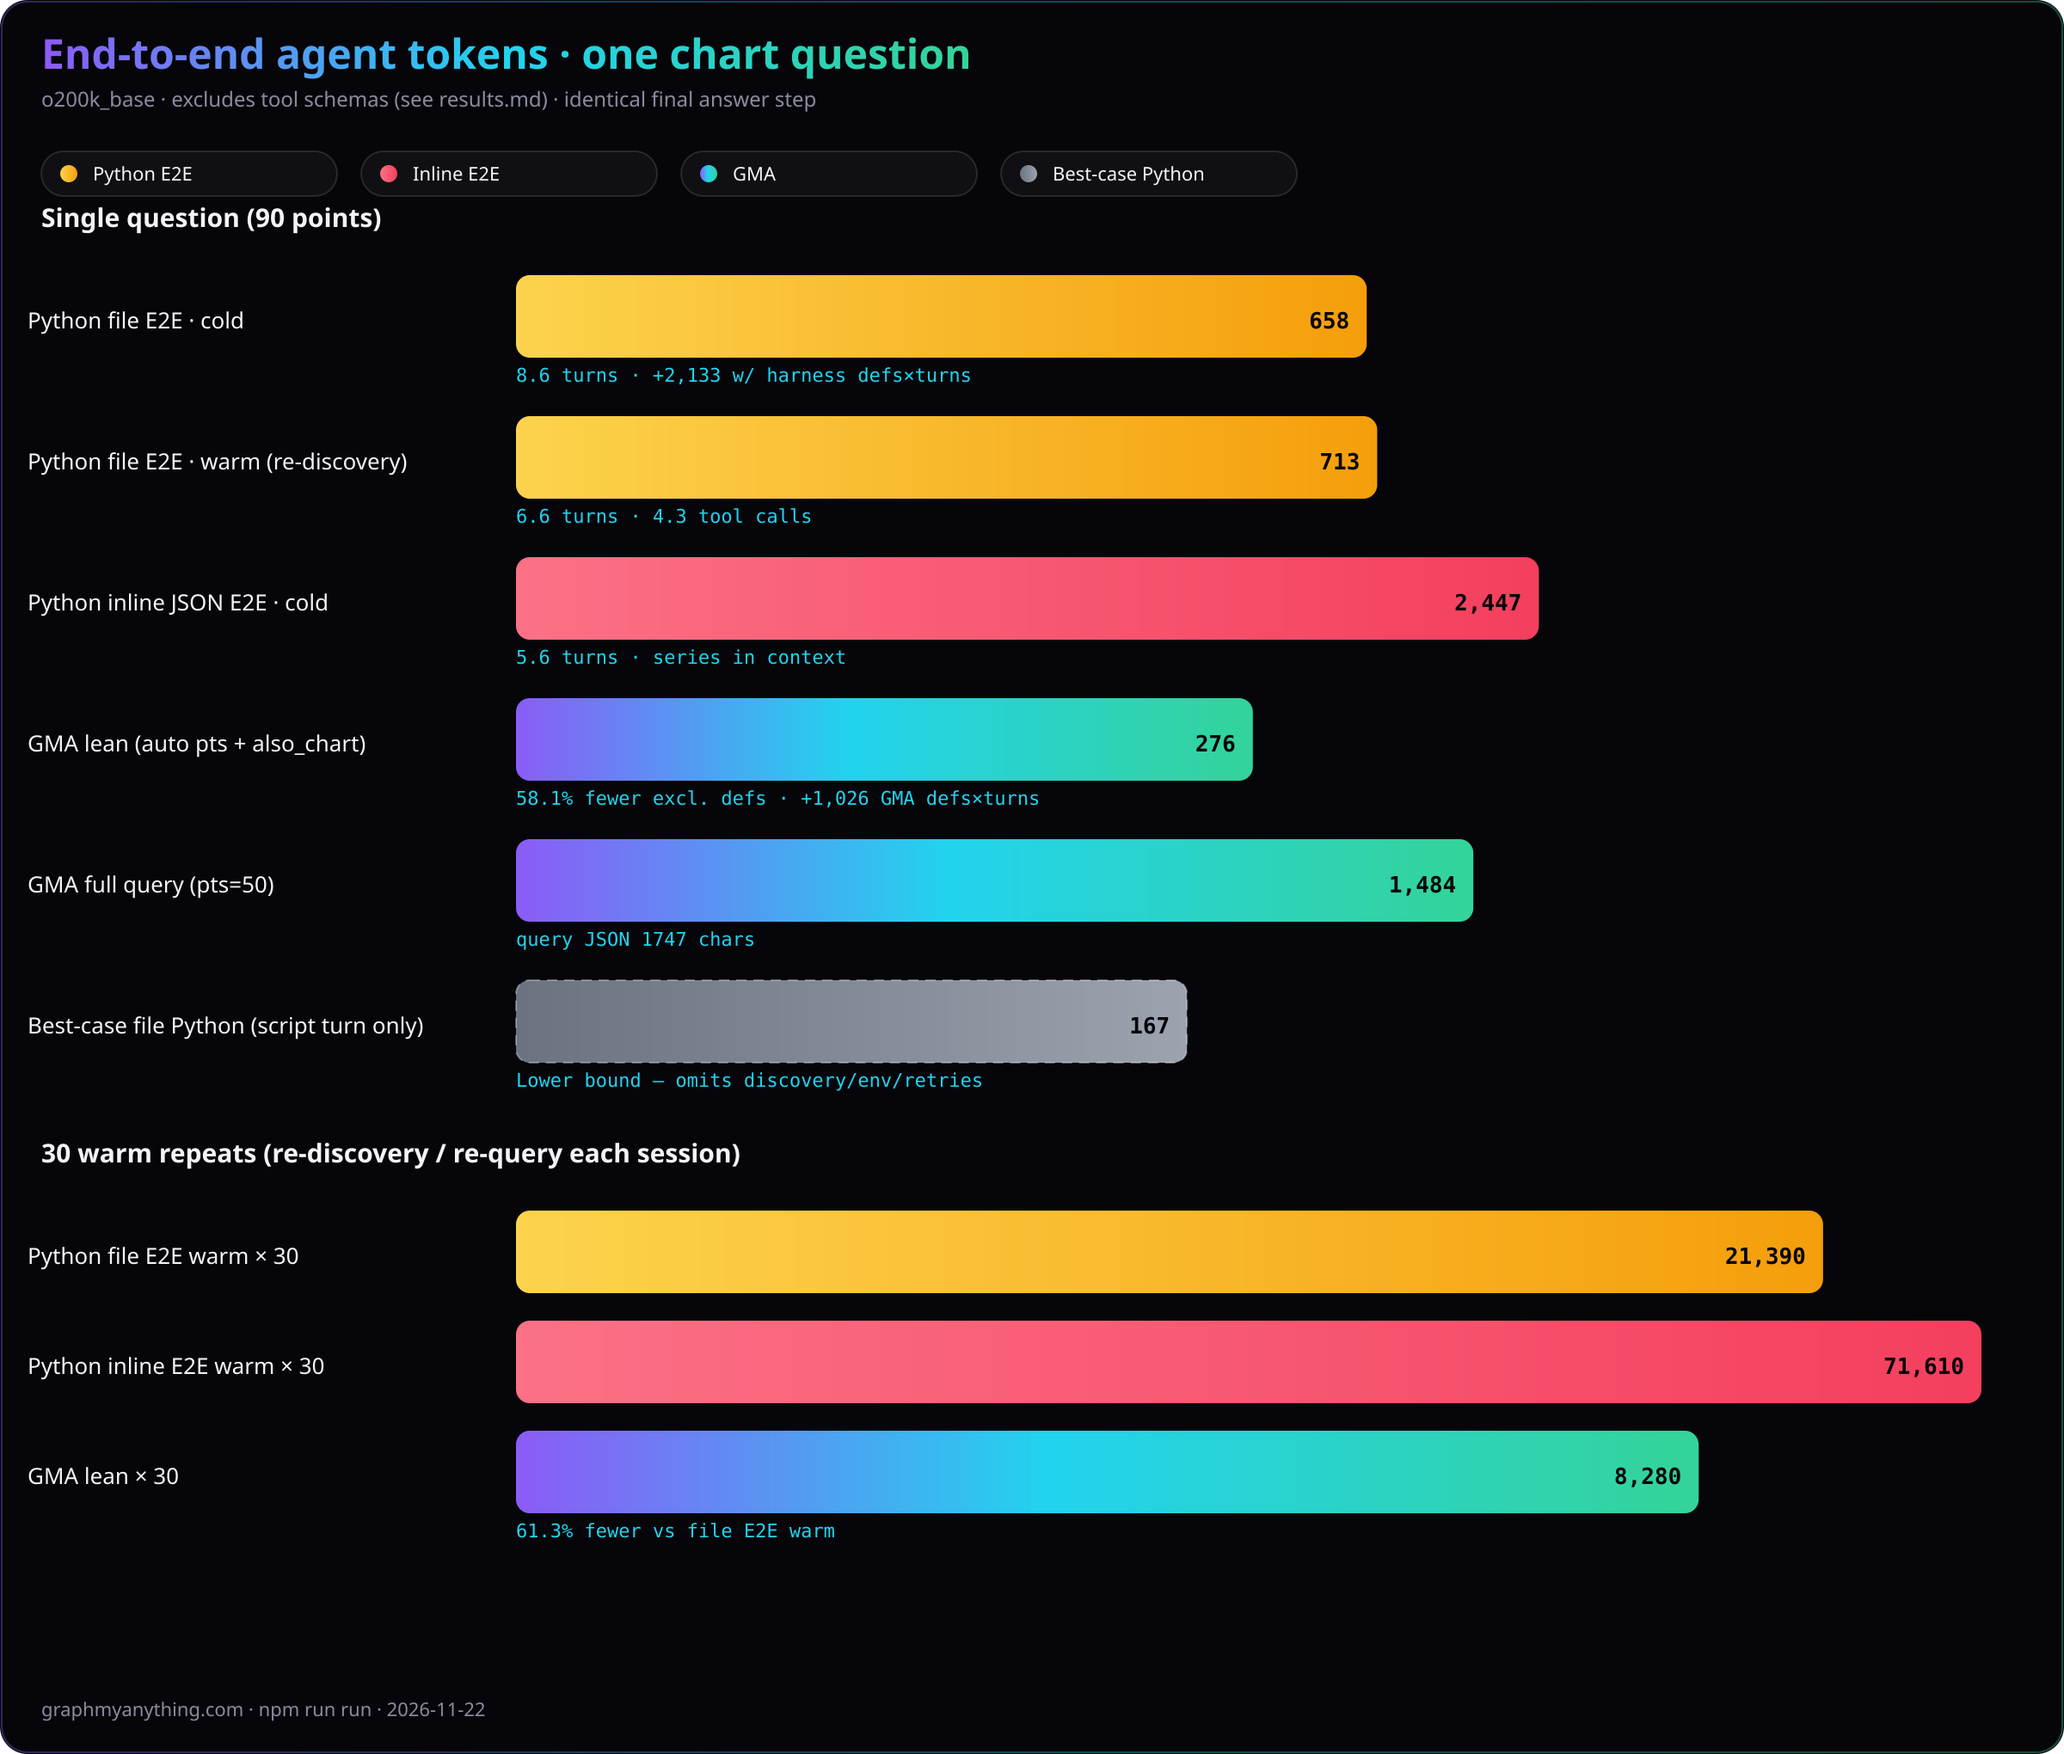
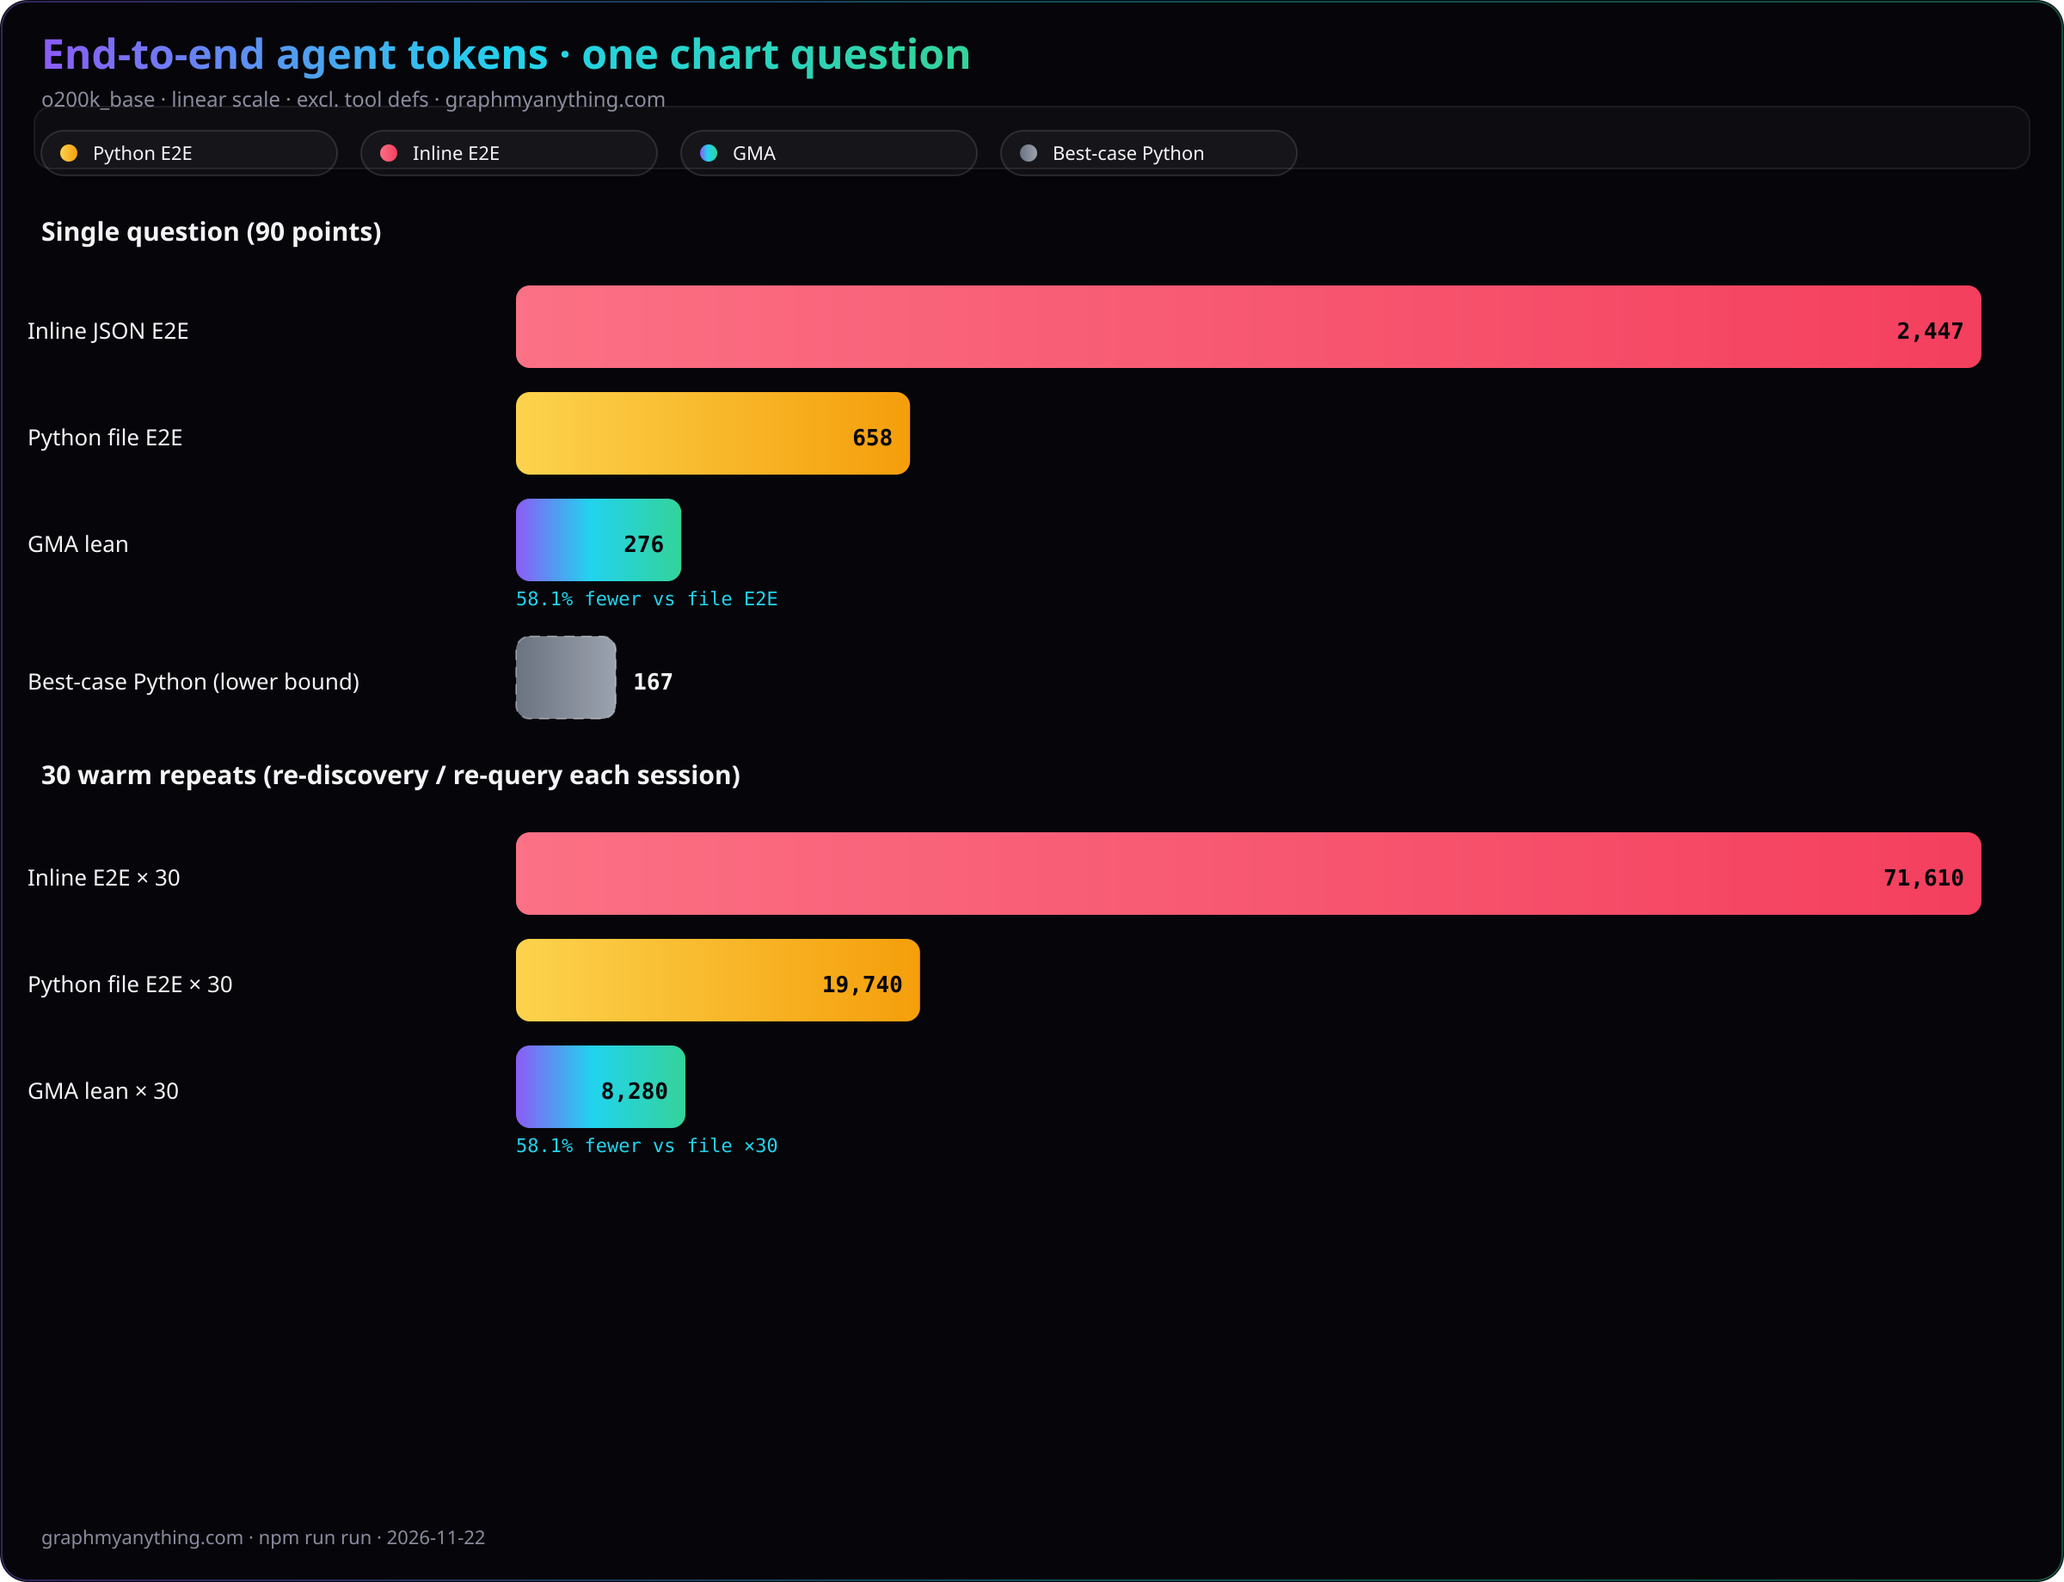
Polish social chart: linear scale, slim legend row; package metadata
Social PNG: Inline / Python file / GMA lean / best-case + 30-session group.
Add MCP server.json and full npm package.json fields for registry prep.

diff --git a/benchmarks/token-benchmark/run.ts b/benchmarks/token-benchmark/run.ts
@@ -167,27 +167,28 @@ function escapeXml(s: string): string {
 
 function renderChart(primary: ChartBar[], secondary: ChartBar[]): string {
   const W = 1200;
-  const H = 1020;
+  const H = 920;
   const bg = "#06060a";
   const muted = "#8b8b9e";
   const fg = "#f4f4f7";
   const left = 300;
   const innerW = W - left - 48;
   const barH = 48;
-  const gap = 16;
-  const legendY = 88;
-  const panel1TitleY = 132;
-  let y = panel1TitleY + 28;
+  const gap = 14;
+  const legendY = 76;
+  const legendRowH = 36;
+  const panel1TitleY = legendY + legendRowH + 28;
+  let y = panel1TitleY + 26;
 
-  const maxVal = Math.max(...[...primary, ...secondary].map((b) => b.total), 10);
-  const maxLog = Math.log10(maxVal);
+  const maxPrimary = Math.max(...primary.map((b) => b.total), 10);
+  const maxSecondary = Math.max(...secondary.map((b) => b.total), 10);
 
-  function logW(value: number): number {
-    return (Math.log10(Math.max(1, value)) / maxLog) * innerW;
+  function linearW(value: number, panelMax: number): number {
+    return (value / panelMax) * innerW;
   }
 
-  function barBlock(bar: ChartBar, yPos: number): string {
-    const w = logW(bar.total);
+  function barBlock(bar: ChartBar, yPos: number, panelMax: number): string {
+    const w = linearW(bar.total, panelMax);
     const end = left + w;
     const labelInside = end > left + 90;
     const labelRight = end + 88 > W - 8;
@@ -229,7 +230,7 @@ function renderChart(primary: ChartBar[], secondary: ChartBar[]): string {
 
   const bars1: string[] = [];
   for (const bar of primary) {
-    bars1.push(barBlock(bar, y));
+    bars1.push(barBlock(bar, y, maxPrimary));
     y += barH + gap + (bar.callout ? 18 : 0);
   }
 
@@ -237,7 +238,7 @@ function renderChart(primary: ChartBar[], secondary: ChartBar[]): string {
   y = panel2Y + 28;
   const bars2: string[] = [];
   for (const bar of secondary) {
-    bars2.push(barBlock(bar, y));
+    bars2.push(barBlock(bar, y, maxSecondary));
     y += barH + gap + (bar.callout ? 18 : 0);
   }
 
@@ -252,7 +253,8 @@ function renderChart(primary: ChartBar[], secondary: ChartBar[]): string {
   <rect width="100%" height="100%" fill="${bg}" rx="16"/>
   <rect x="1" y="1" width="${W - 2}" height="${H - 2}" rx="15" fill="none" stroke="url(#title-grad)" stroke-opacity="0.35"/>
   <text x="24" y="40" fill="url(#title-grad)" font-family="system-ui,sans-serif" font-size="24" font-weight="700">End-to-end agent tokens · one chart question</text>
-  <text x="24" y="62" fill="${muted}" font-family="system-ui,sans-serif" font-size="12">o200k_base · excludes tool schemas (see results.md) · identical final answer step</text>
+  <text x="24" y="62" fill="${muted}" font-family="system-ui,sans-serif" font-size="12">o200k_base · linear scale · excl. tool defs · graphmyanything.com</text>
+  <rect x="20" y="${legendY - 14}" width="${W - 40}" height="${legendRowH}" rx="10" fill="rgba(255,255,255,0.03)" stroke="rgba(255,255,255,0.08)"/>
   ${chips}
   <text x="24" y="${panel1TitleY}" fill="${fg}" font-size="15" font-weight="600" font-family="system-ui,sans-serif">Single question (90 points)</text>
   ${bars1.join("")}
@@ -282,73 +284,54 @@ const gmaDefTokens = countTokens(gmaToolDefsJson());
 const pyDefTokens = countTokens(PYTHON_HARNESS_TOOLS_JSON);
 const fileColdDefs = toolDefOverhead(fileCold, pyDefTokens);
 const gmaLeanDefs = toolDefOverhead(gmaLean, gmaDefTokens);
-const gmaCallout = `${pctDeltaLabel(fileCold.total, gmaLean.total)} excl. defs · +${formatNum(gmaLeanDefs.perTurn - gmaLean.total)} GMA defs×turns`;
-
-const primaryBars: ChartBar[] = [
-  {
-    id: "python_file_e2e_cold",
-    label: "Python file E2E · cold",
-    total: fileCold.total,
-    gradientId: "file_e2e",
-    callout: `${fileCold.turns} turns · +${formatNum(fileColdDefs.perTurn - fileCold.total)} w/ harness defs×turns`,
-  },
-  {
-    id: "python_file_e2e_warm",
-    label: "Python file E2E · warm (re-discovery)",
-    total: fileWarm.total,
-    gradientId: "file_e2e",
-    callout: `${fileWarm.turns} turns · ${fileWarm.toolCalls} tool calls`,
-  },
+const primaryBarsSocial: ChartBar[] = [
   {
     id: "python_inline_e2e_cold",
-    label: "Python inline JSON E2E · cold",
+    label: "Inline JSON E2E",
     total: inlineCold.total,
     gradientId: "inline_e2e",
-    callout: `${inlineCold.turns} turns · series in context`,
+  },
+  {
+    id: "python_file_e2e_cold",
+    label: "Python file E2E",
+    total: fileCold.total,
+    gradientId: "file_e2e",
   },
   {
     id: "gma_lean",
-    label: "GMA lean (auto pts + also_chart)",
+    label: "GMA lean",
     total: gmaLean.total,
     gradientId: "gma",
-    callout: gmaCallout,
-  },
-  {
-    id: "gma_full",
-    label: "GMA full query (pts=50)",
-    total: gmaFull.total,
-    gradientId: "gma",
-    callout: `query JSON ${payloads.fullQuery.length} chars`,
+    callout: `${pctDeltaLabel(fileCold.total, gmaLean.total)} vs file E2E`,
   },
   {
     id: "file_best",
-    label: "Best-case file Python (script turn only)",
+    label: "Best-case Python (lower bound)",
     total: bestCase.total,
     gradientId: "best",
     dashed: true,
-    callout: "Lower bound — omits discovery/env/retries",
   },
 ];
 
-const secondaryBars: ChartBar[] = [
-  {
-    id: "multi_file_warm",
-    label: "Python file E2E warm × 30",
-    total: fileWarm.total * SESSIONS,
-    gradientId: "file_e2e",
-  },
+const secondaryBarsSocial: ChartBar[] = [
   {
     id: "multi_inline_warm",
-    label: "Python inline E2E warm × 30",
+    label: "Inline E2E × 30",
     total: inlineWarm.total * SESSIONS,
     gradientId: "inline_e2e",
+  },
+  {
+    id: "multi_file_cold",
+    label: "Python file E2E × 30",
+    total: fileCold.total * SESSIONS,
+    gradientId: "file_e2e",
   },
   {
     id: "multi_gma",
     label: "GMA lean × 30",
     total: gmaLean.total * SESSIONS,
     gradientId: "gma",
-    callout: `${pctDeltaLabel(fileWarm.total * SESSIONS, gmaLean.total * SESSIONS)} vs file E2E warm`,
+    callout: `${pctDeltaLabel(fileCold.total * SESSIONS, gmaLean.total * SESSIONS)} vs file ×30`,
   },
 ];
 
@@ -503,7 +486,7 @@ From repo root: \`npm run benchmark:tokens\`
 `;
 
 const outDir = __dirname;
-const svg = renderChart(primaryBars, secondaryBars);
+const svg = renderChart(primaryBarsSocial, secondaryBarsSocial);
 fs.writeFileSync(path.join(outDir, "token-benchmark.svg"), svg, "utf8");
 fs.writeFileSync(path.join(outDir, "results.md"), md, "utf8");
 await sharp(Buffer.from(svg)).resize(2400).png().toFile(path.join(outDir, "token-benchmark.png"));
